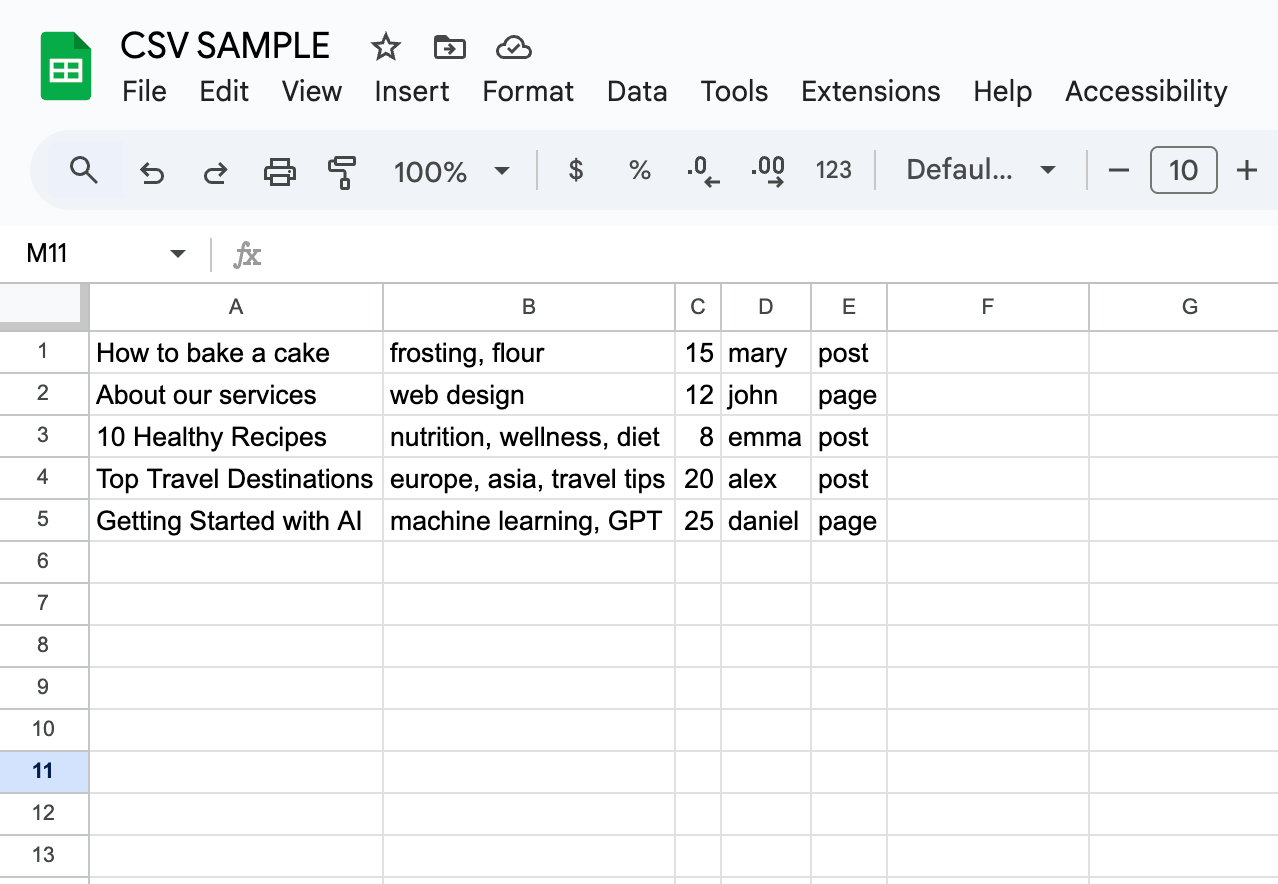
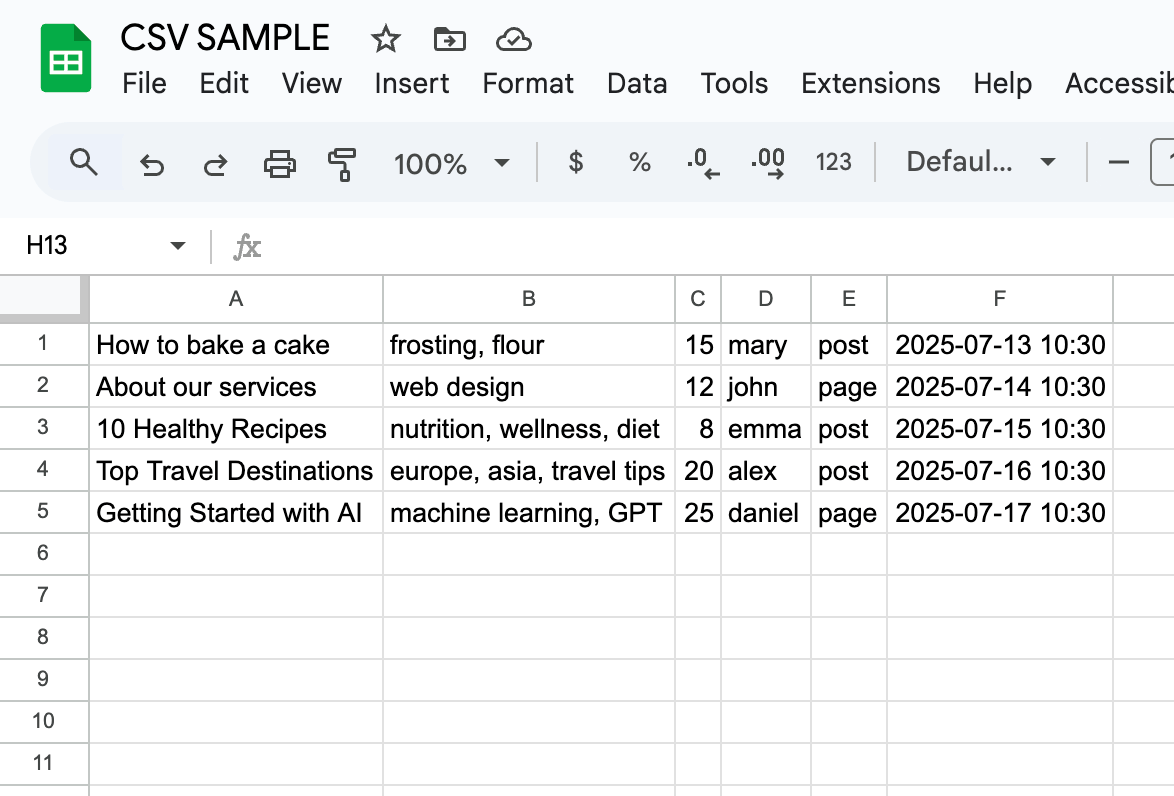
schedule settings added

diff --git a/docs/Automate/content-creation.md b/docs/Automate/content-creation.md
@@ -31,6 +31,7 @@ import replicateapi from '/img/write/replicate-api.png';
 import stockimagesapi from '/img/write/stock-images-api.png';
 import imageprompts from '/img/automate/image-prompts.png';
 import postsettings from '/img/automate/post-settings.png';
+import schedulesettings from '/img/automate/schedule.png';
 
 # Content Creation
 
@@ -55,11 +56,11 @@ The first step of the wizard is **Setup**, where you define your content source.
 ### List
 This mode allows you to enter a list of topics directly.
 
--   **Format**: Enter one topic per line. You can also include keywords, a category ID, an author username, and a post type slug, separated by `|`.
+-   **Format**: Enter one topic per line. You can also include keywords, a category ID, an author username, a post type slug, and a schedule date, separated by `|`.
 -   **Example**:
     ```
     How to bake a cake | frosting, flour | 15 | mary | post
-    About our services | web design | 12 | john | page
+    About our services | web design | 12 | john | page | 2025-12-25 14:30
     The future of AI in marketing
     ```
 
@@ -68,7 +69,7 @@ This mode allows you to enter a list of topics directly.
 ### CSV
 This mode lets you generate articles by importing topics from a CSV file.
 
--   **Format**: The columns in your CSV file must be in the order: `Topic`, `Keywords`, `Category ID`, `Author Username`, `Post Type Slug`.
+-   **Format**: The columns in your CSV file must be in the order: `Topic`, `Keywords`, `Category ID`, `Author Username`, `Post Type Slug`, `Schedule Date (YYYY-MM-DD HH:MM)`.
 -   **Usage**: Click "Choose File" to upload your CSV. The system will parse the file and prepare the topics for the task.
 
 <img src={cccsv} />
@@ -103,7 +104,7 @@ Connect a Google Sheet to manage a large content calendar. The task will generat
 
 <img src={ccsheets} />
 
--   **Format**: Your sheet must have columns in the order: `Topic`, `Keywords`, `Category ID`, `Author`, `Post Type`. A sixth column, `Status`, will be automatically updated by the plugin to "Processed" after an article is generated, preventing duplicates on future runs.
+-   **Format**: Your sheet must have columns in the order: `Topic`, `Keywords`, `Category ID`, `Author`, `Post Type`, `Schedule Date (YYYY-MM-DD HH:MM)`. A seventh column, `Status`, will be automatically updated by the plugin to "Processed" after an article is generated, preventing duplicates on future runs.
 -   **Authentication**: You will need to provide your Google Sheet ID and Service Account credentials.
 
 :::info How to Set Up Google Sheets
@@ -264,8 +265,14 @@ These settings control how the generated content is saved in your WordPress site
 - **Type**: Choose whether to save the content as a `Post`, `Page`, or other custom post type.
 - **Author**: Select the WordPress user who will be assigned as the author.
 - **Categories**: Assign one or more categories to the post.
-- **Status & Scheduling**:
-    -   Set the post status (Draft, Publish, Pending, Private).
-    -   If you select `Publish`, you can optionally set a future date and time to schedule the post.
+- **Status & Publishing Schedule**:
+    -   Set the post status (`Draft`, `Publish`, `Pending`, `Private`).
+    -   If you select `Publish`, you can choose a scheduling strategy:
+
+<img src={schedulesettings} />
+
+        -   **Publish Immediately**: The default behavior. Posts will be published as soon as they are generated.
+        -   **Smart Schedule**: Automatically stagger the publication of generated posts. Set a **Start Date/Time** and an **Interval** (e.g., publish one post every 2 hours). This is ideal for maintaining a consistent content flow.
+        -   **Use Dates from Input**: Use a specific date and time from your input source (List, CSV, or Google Sheets). This allows for precise scheduling of each individual article.
 
 Once you have configured all the steps, click **Create Task**. The system will add your topics to the queue and begin generating content according to your schedule.

diff --git a/docs/Write/modules.md b/docs/Write/modules.md
@@ -70,12 +70,12 @@ Task-based generation is managed by the **Automate** module. This section provid
 
 The Bulk mode allows you to enter a list of topics directly.
 
--   **Format**: Enter one topic per line. You can also include keywords, a category ID, author username, and post type slug, separated by `|`.
+-   **Format**: Enter one topic per line. You can also include keywords, a category ID, author username, post type slug, and schedule date separated by `|`.
 -   **Example**:
 
     ```
     How to bake a cake | frosting, flour | 15 | mary | post
-    About our services | web design | 12 | john | page
+    About our services | web design | 12 | john | page | 2025-12-25 14:30
     The future of AI in marketing
     ```
 
@@ -87,7 +87,7 @@ This mode lets you generate articles by importing topics from a CSV file.
 
 <img src={csvupload} />
 
--   **Format**: The columns in your CSV file must be in the following order: `Topic`, `Keywords`, `Category ID`, `Author Username`, `Post Type Slug`.
+-   **Format**: The columns in your CSV file must be in the following order: `Topic`, `Keywords`, `Category ID`, `Author Username`, `Post Type Slug`, `Schedule Date (YYYY-MM-DD HH:MM)`.
 -   **Usage**: Click "Choose File" to upload your CSV. The system will parse the file and prepare the topics for the task.
 
 :::tip
@@ -130,7 +130,8 @@ Connect a Google Sheet to manage a large content calendar. The task will generat
     -   Column C: Category ID
     -   Column D: Author Username
     -   Column E: Post Type Slug
-    -   **Column F: Status (Optional)**. The plugin will write "Processed on [Date]" to this column after successfully generating an article. Rows with any value in the Status column will be skipped in future runs.
+    -   Column F: Schedule Date (YYYY-MM-DD HH:MM)
+    -   **Column G: Status (Optional)**. The plugin will write "Processed on [Date]" to this column after successfully generating an article. Rows with any value in the Status column will be skipped in future runs.
 
 <img src={sheetid} />
 
@@ -270,6 +271,7 @@ It's time to create a Google Sheet, grant write permissions to the service accou
 | C      | Category ID      | Optional. WordPress numeric category ID.  |
 | D      | Author Login     | Optional. WordPress username of the author. |
 | E      | Post Type Slug   | Optional. Slug for post type (e.g., `post`, `page`). |
-| F      | Status           | Optional. The plugin writes "Processed" here and skips rows with a value in this column. |
+| F      | Schedule Date    | Optional. `YYYY-MM-DD HH:MM` format.        |
+| G      | Status           | Optional. The plugin writes "Processed" here and skips rows with a value in this column. |
 
 > One topic per row is required.

diff --git a/docs/Write/post.md b/docs/Write/post.md
@@ -4,6 +4,7 @@ sidebar_position: 7
 ---
 
 import postsettings from '/img/write/post-settings.png';
+import schedulesettings from '/img/write/schedule.png';
 
 # Post Settings
 
@@ -17,13 +18,20 @@ The Post settings control how the generated content is saved in your WordPress s
 -   **Author**: Select the WordPress user who will be assigned as the author of the post.
 -   **Categories**: Assign one or more categories to the post. This option is available for post types that support categories.
 
-## Status & Scheduling
+## Status & Publishing Schedule
 
 These settings determine the visibility and publication time of the post.
 
 -   **Status**:
     -   **Draft**: Saves the post as a draft for you to review later.
-    -   **Publish**: Publishes the post immediately.
+    -   **Publish**: Publishes the post immediately or schedules it for a future date.
     -   **Pending Review**: Saves the post with "Pending Review" status.
     -   **Private**: Saves the post as private, visible only to logged-in users with sufficient permissions.
--   **Scheduling**: If you select `Publish` as the status, you can optionally set a future date and time. The post will then be scheduled to go live at that time.
+-   **Publishing Schedule**: If you select `Publish` as the status, you can choose a scheduling strategy:
+
+<img src={schedulesettings} />
+
+    -   **Publish Immediately**: The default behavior. The post will be published as soon as it's saved.
+    -   **Smart Schedule**: This option is for task-based modes (Bulk, CSV, etc.). It automatically staggers the publication of multiple posts. Set a **Start Date/Time** and an **Interval** (e.g., publish one post every 2 hours).
+    -   **Use Dates from Input**: This option is also for task-based modes. It uses a specific date and time provided in your input source (List, CSV, or Google Sheets), allowing for precise scheduling of each individual article.
+    -   **Manual Schedule**: For single articles, you can manually set a future date and time to schedule the post.
